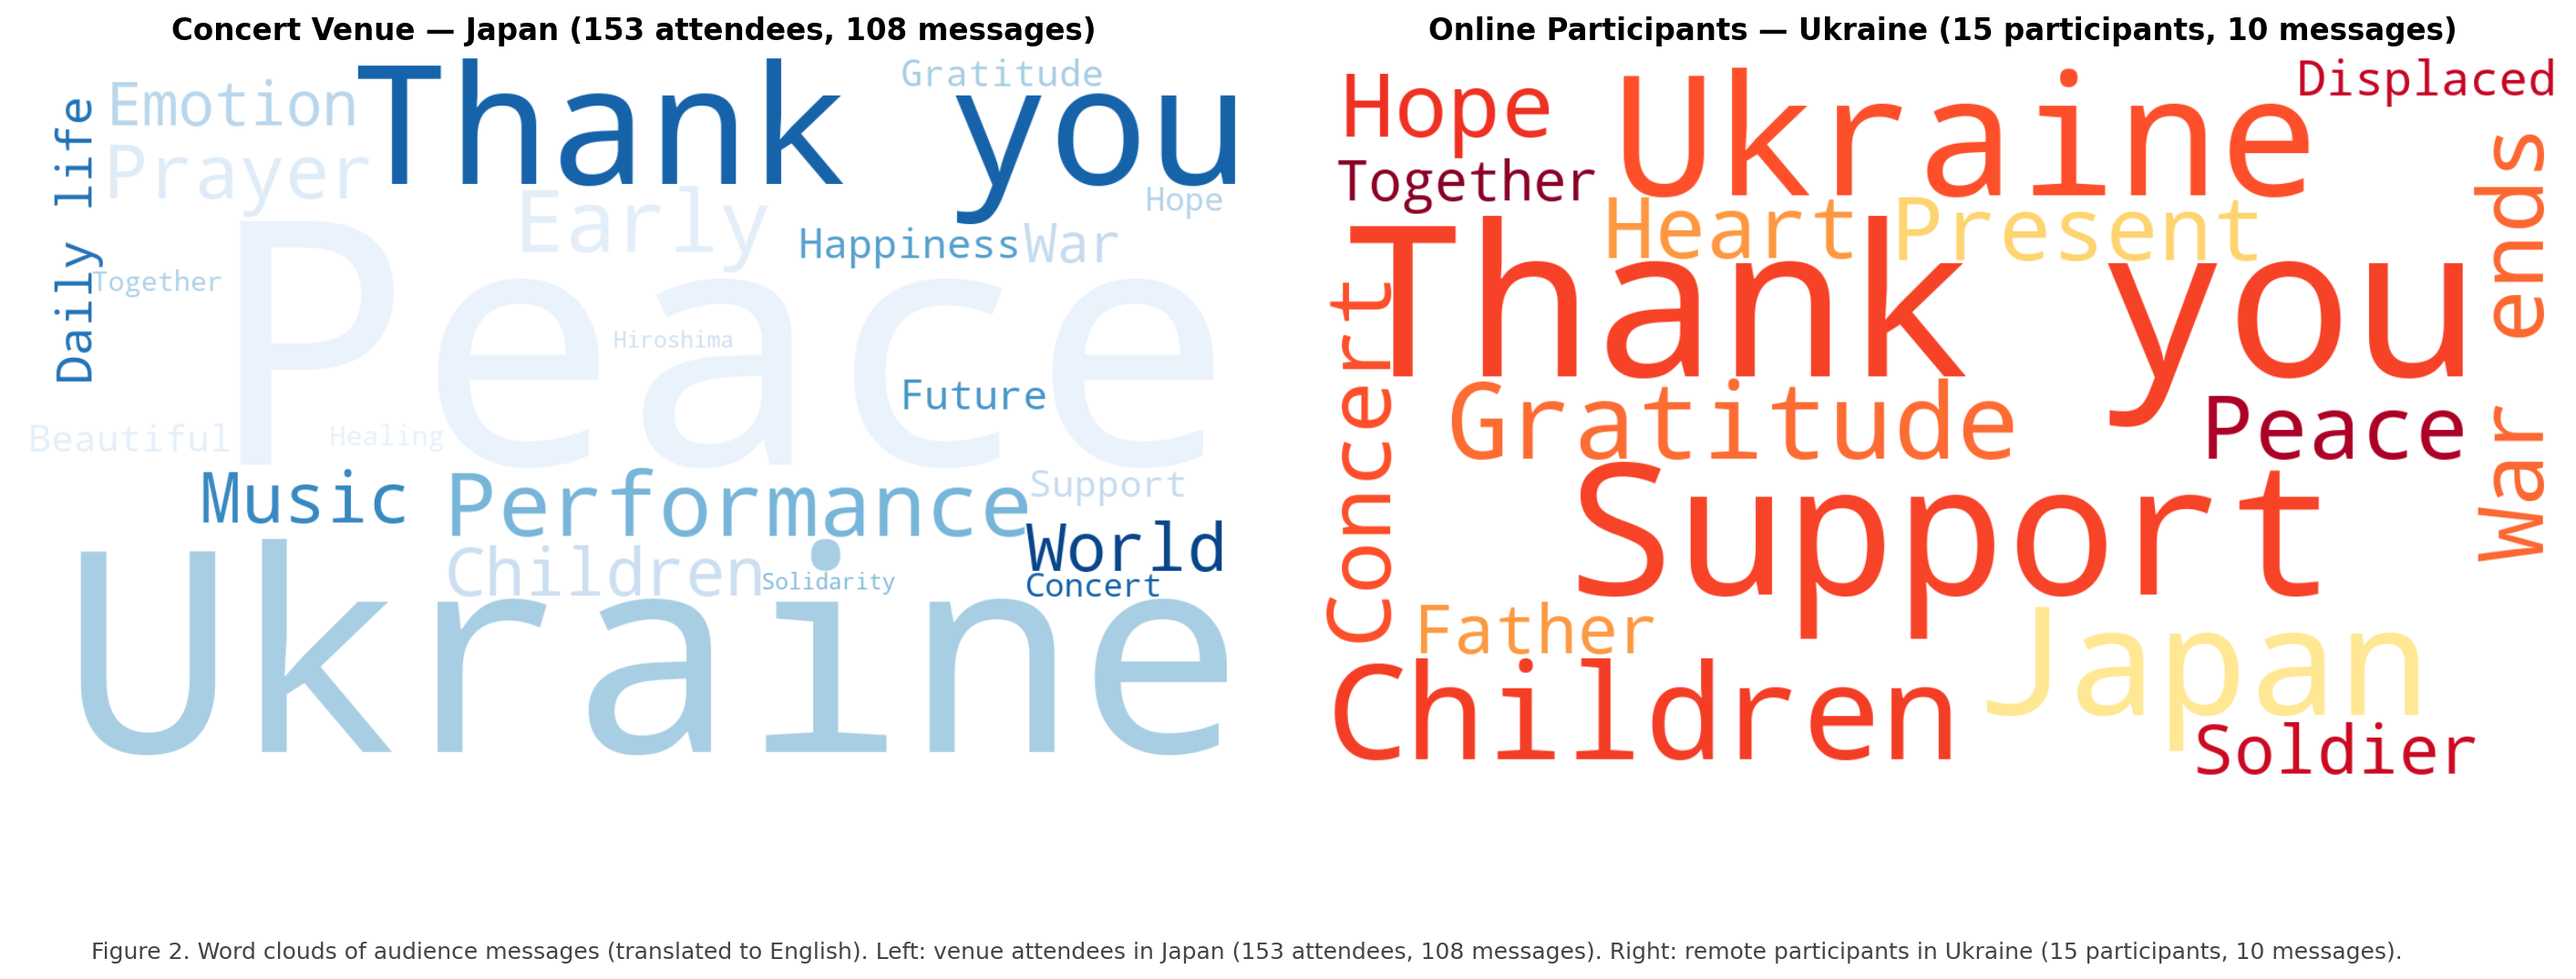
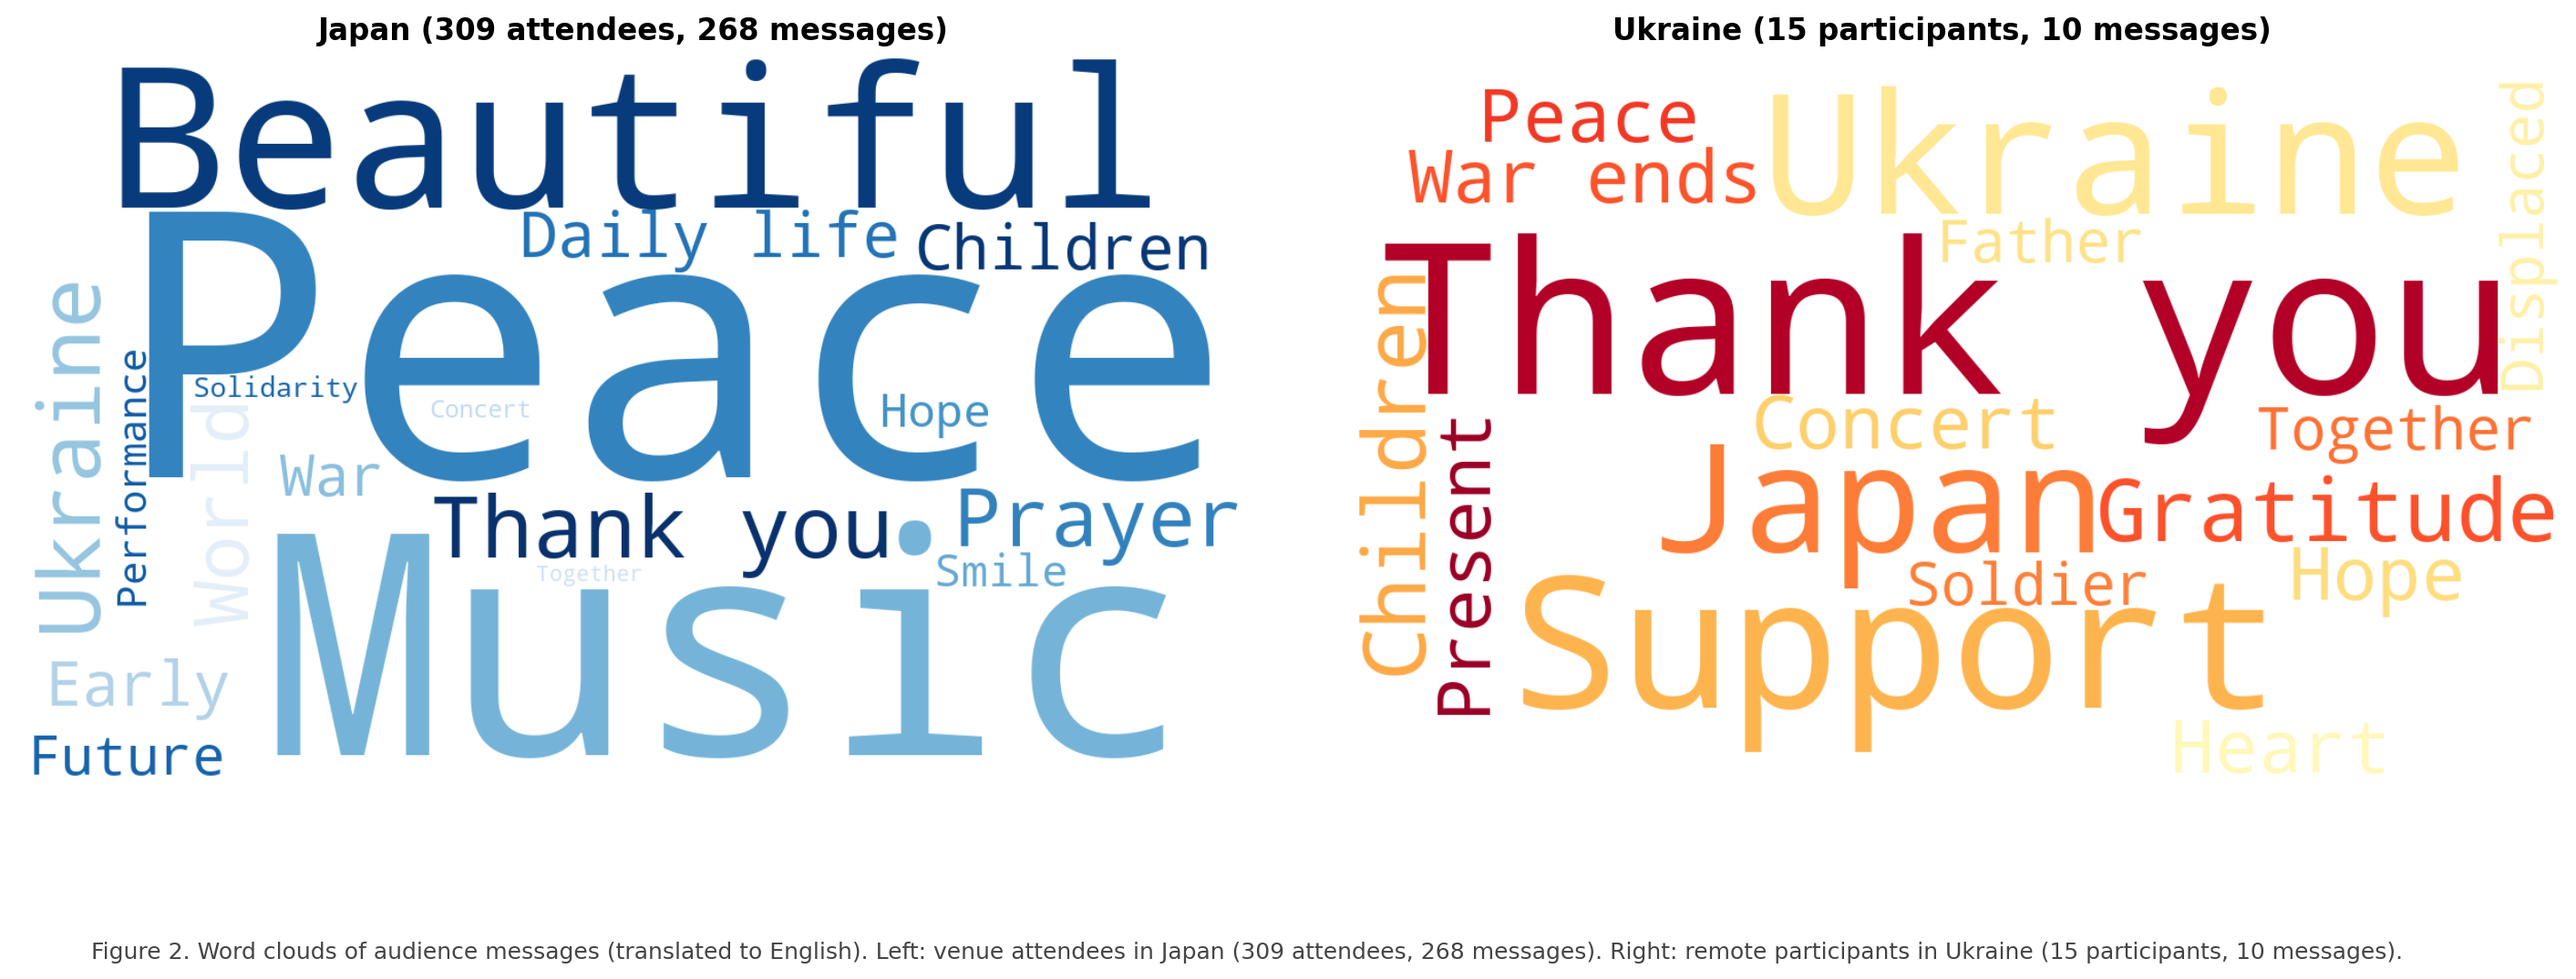
Update to combined Tokyo+Hiroshima data (278 messages total)
- Venue messages: 268 (Tokyo 160 + Hiroshima 108)
- Online messages: 10 (Hiroshima Ukraine participants)
- Regenerate word cloud with updated frequencies
- Update message counts in Introduction, Section 4.2, and figure caption

diff --git a/main.tex b/main.tex
@@ -50,7 +50,7 @@ the SIGGRAPH community is positioned to examine but rarely does.
 
 By 2025, the Russia-Ukraine War had entered its fourth year, and public attention in Japan had
 measurably shifted.
-Two classical musicians, both from Hiroshima with personal ties to Ukraine, had been
+Two classical musicians, both with personal ties to Ukraine, had been
 organizing charity concerts for this cause since 2022. They chose to continue despite an
 absence of sponsorship, funding this concert through crowdfunding.
 This paper documents the charity concert that followed: what it was designed to hold
@@ -90,7 +90,7 @@ range.
 
 This paper documents a charity classical concert held at two venues in Japan in 2026, with
 fifteen Ukrainian participants joining remotely.
-Drawing on 118 audience messages, a post-concert survey ($n=14$), and qualitative interviews
+Drawing on 278 audience messages, a post-concert survey ($n=14$), and qualitative interviews
 ($n=10$), we report what the concert produced in two registers: whether digital media
 interpolated into a classical format can sustain its characteristic listening experience, and
 whether a charity concert of this kind generates engagement with a distant conflict or
@@ -260,13 +260,14 @@ Both performances concluded without production incidents.
 \begin{figure*}
   \includegraphics[width=\textwidth]{figure2_wordclouds.png}
   \caption{Word clouds of audience messages translated to English.
-  Left: Japan (153 attendees, 108 messages).
+  Left: Japan (309 attendees, 268 messages).
   Right: Ukraine (15 participants, 10 messages).}
   \label{fig:wordclouds}
 \end{figure*}
 
-Of 118 messages collected (108 from venue attendees and 10 Ukrainian submissions), the most frequent terms in venue messages were Peace (37),
-Ukraine (26), Thank you (25), Performance (23), and Prayer (17), clustering around
+Of 278 messages collected (268 from venue attendees across both concerts and 10 Ukrainian
+online submissions), the most frequent terms in venue messages were Peace (72),
+Music (52), Beautiful (47), Ukraine (40), and Thank you (40), clustering around
 abstract hope and gratitude.
 Ukrainian participant messages occupied a different register: thanks to Japan were
 accompanied by references to concrete circumstances (``my father is in the military,''
